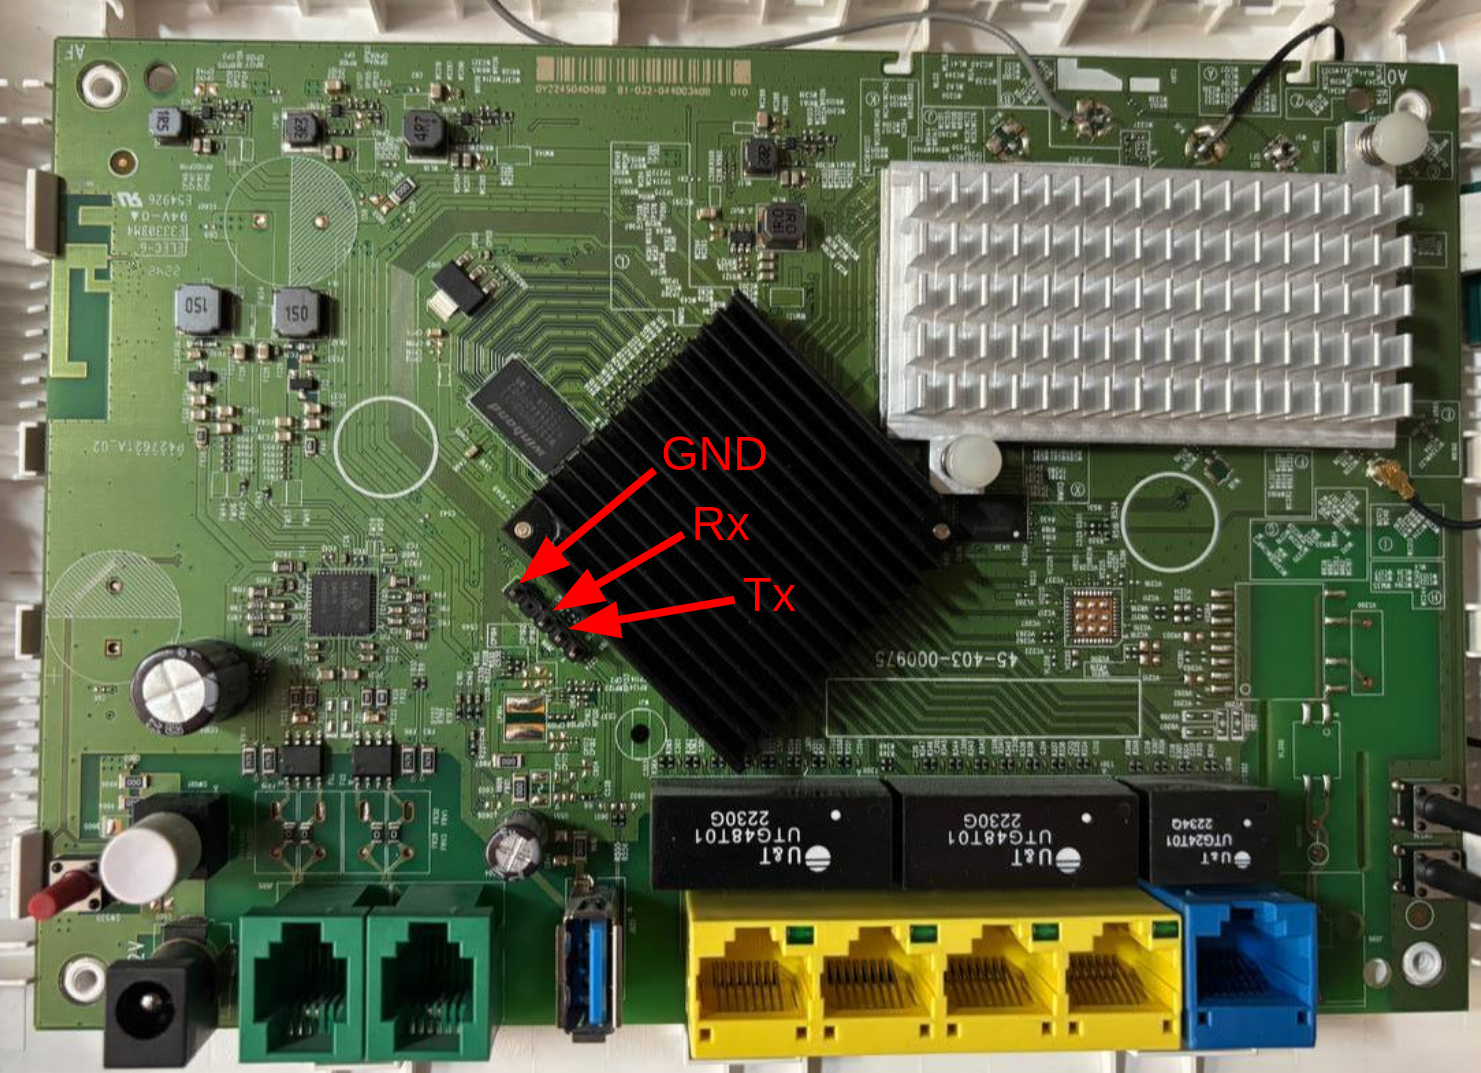
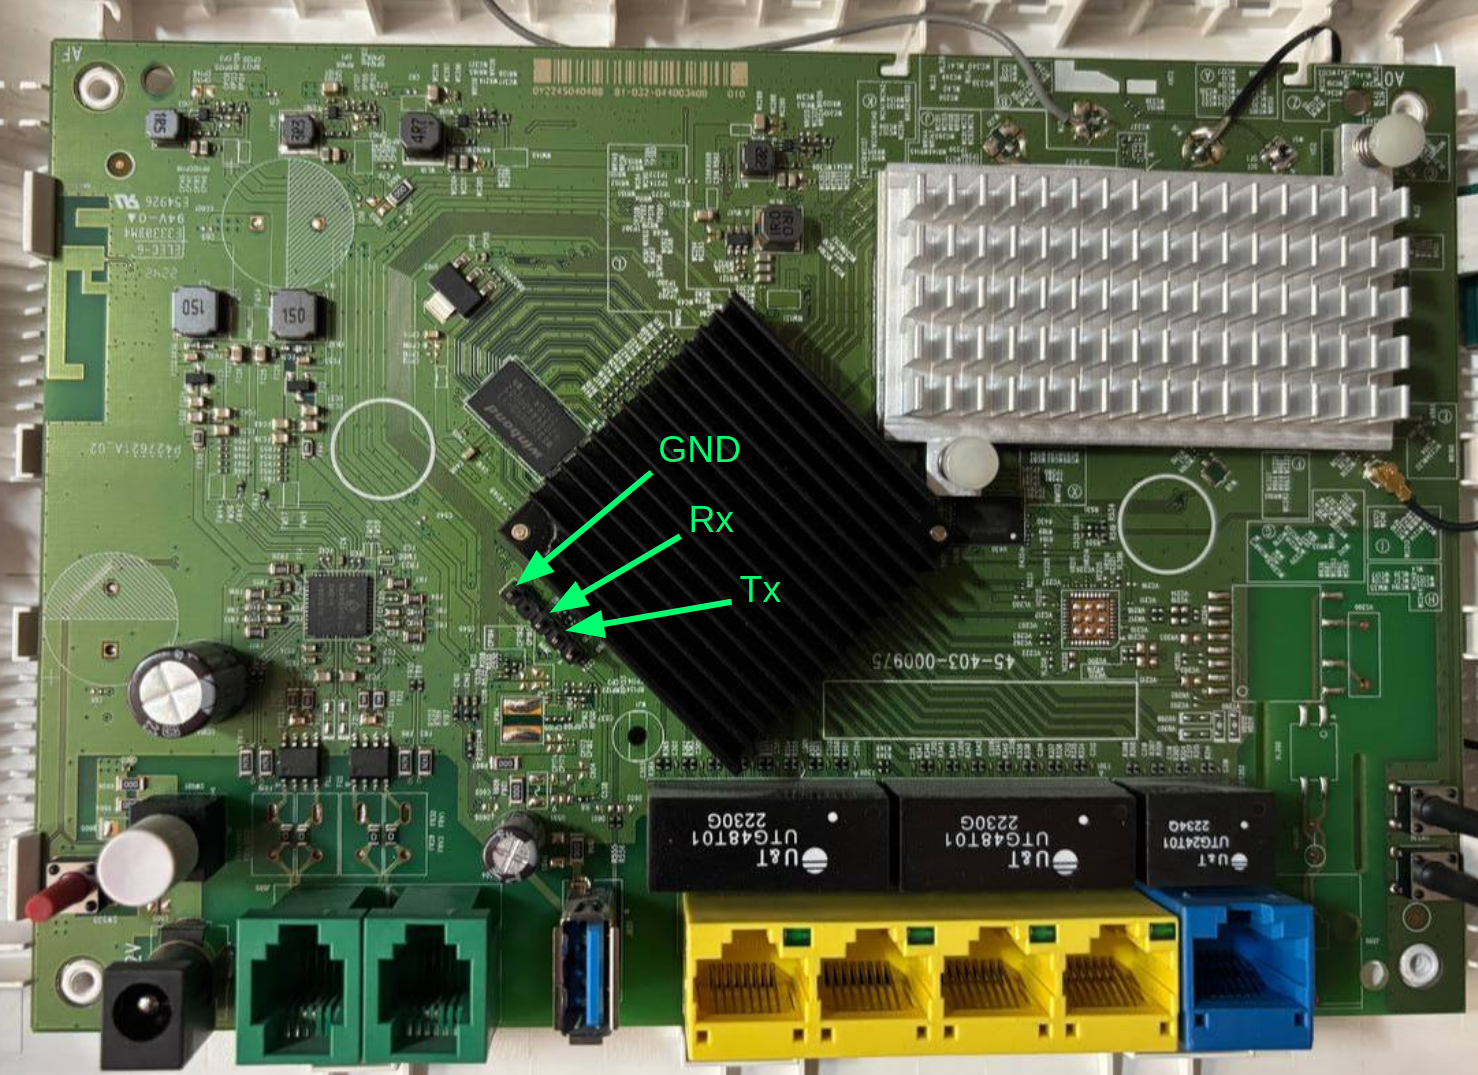
Continued with new post

diff --git a/_posts/2026-08-01-rce-on-isp-router-and-mediatek-0day.html b/_posts/2026-08-01-rce-on-isp-router-and-mediatek-0day.html
@@ -10,13 +10,13 @@ header:
 
 {% raw %}Hi there! In this blog post, I will be discussing how I broke into my ISP router by using a command injection, how I found another even better command injection inside, and how I ended up finding and exploiting a remote heap overflow in the kernel driver of the Mediatek chipset inside the router. These vulnerabilities have been disclosed over the past months and have been assigned the following CVEs:
 
-- CVE-2025-13942: Zyxel unauthenticated command injection in UPnP daemon
-- CVE-2025-13943: Zyxel authenticated command injection in log export CGI
-- CVE-2026-XXXX: Mediatek MTXXX WPS heap overflow
+  - CVE-2025-13942: Zyxel unauthenticated command injection in UPnP daemon
+  - CVE-2025-13943: Zyxel authenticated command injection in log export CGI
+  - CVE-2026-XXXX: Mediatek MTXXX WPS heap overflow
 
 As usual, this research is heavily based on reverse engineering and a fair amount of trial and error, so excuse me if there are any mistakes, specially in low level kernel stuff, since this is a very complex topic. If you find something that is awfully wrong and want to help me correct it, I am absolutely open to it. Anyways, let's start with the blog, since there is a lot to cover.
 
-<img src="/assets/images/posts/2026-06-01/zyxel_mediatek_teaser.jpg" style="width: 30em">
+<img src="/assets/images/posts/2026-06-01/zyxel_mediatek_teaser.png" style="width: 30em">
 
 [ Some context ]
 
@@ -171,8 +171,43 @@ DECIMAL       HEXADECIMAL     DESCRIPTION
 372           0x174           LZMA compressed data, properties: 0x6C, dictionary size: 8388608 bytes, uncompressed size: 16279488 bytes
 4180222       0x3FC8FE        Squashfs filesystem, little endian, version 4.0, compression:lzma, size: 26706310 bytes, 2393 inodes, blocksize: 262144 bytes, created: 2025-04-11 08:20:33</code>
 
-My main target were the UPnP ports that appeared in the nmap scan, since UPnP services tend to be straightforward and are easily reversed. After some initial analysis, I could not find any binaries that used those ports nor the schema advertised by the service, so I assumed it was an ISP thing and moved on.
+My main targets were the UPnP ports that appeared in the nmap scan, since UPnP services tend to be straightforward and are easily reversed. After some initial analysis, I could not find any binaries that used those ports nor the schema advertised by the service, so I assumed it was an ISP thing and moved on. By then, I just wanted a way inside the router, so I did not care about the potential findings requiring authentication. Because of this, I targeted the web interface, since I already knew that there had been command injections in the past.
 
-By then, I just wanted a way inside the router, so I did not care about the potential findings requiring authentication. Because of this, I targeted the web interface, since I already knew that there had been command injections in the past.
+Looking around into the firmware, I found the executable "/bin/zhttpd", which looked like the one behind the web server. I opened Ghidra and started reversing it. For this research, I used Claude a lot, since it can be connected to Ghidra using Cluade desktop and <a href="https://github.com/LaurieWired/GhidraMCP">GhidraMCP</a>. Athough Claude still has many flaws when diving deep into reversing and exploitation, it is pretty much useful in the initial phase, in which the main goal is just figuring out which are the most interesting functions of an executable, tracing user input, indentifying global tables, figuring out structures, etc.
+
+Using this setup, I quickly identified a global table starting at that mapped routes with their handler functions:
+
+<img src="/assets/images/posts/2026-06-01/zhttpd_routing_table.png" style="width: 40em">
+
+This allowed me confirming that the "/bin/zhttpd" binary that I had was close enough with the one in my ISP router, since most of these routes were accessible.
+
+After a quick look at each of them, "/cgi-bin/LogResult?action" caught my atention, which was mapped to function "zHttpLogHandle". This endpoint was responsible for managing device log operations and supported multiple actions through the "action" parameter, such as creating network traffic captures ("START_CAPTUR", "STOP_CAPTUR"), deleting logs ("DEL_LOG"), exporting logs ("EXPORT_LOG"), etc. In order to manage network traffic captures, it used system commands to execute and then stop "tcpdump":
+
+<img src="/assets/images/posts/2026-06-01/zhttpd_start_stop_captur.png" style="width: 40em">
+
+When executing the log export functionality, function "copyLog" was called, which reads a previously generated "tcpdump" capture file and writes its contents into a new log file. The problem here is that "copyLog" processes the network capture line by line using "fgets" and then, for each line read, it constructs a shell command using a "snprintf" wrapper. Then, it directly executes it using "system":
+
+<img src="/assets/images/posts/2026-06-01/zhttpd_copyLog.png" style="width: 40em">
+
+Since this process does not include any sanitization of the binary data that comes out of the network capture, any string that containing shell metacharacters will be escapes and later executed, enabling remote command execution. Perfect.
+
+Now, in order to exploit this, the attacker had to be authenticated. As I previously mentioned, all authenticated requests to the web interface were encrypted, but this could be easily reversed since all encryption logic happened in clientside JavaScript:
+
+<img src="/assets/images/posts/2026-06-01/zhttpd_encryption.png" style="width: 45em">
+
+So, I quickly crafted an exploit that executed the following:
+
+  1. Authenticate to the web interface with valid credentials to obtain a session key.
+  2. Start a network traffic capture
+  3. Send an HTTP request to the router with a header containing a command injection payload.
+  4. Stop the network traffic capture 
+  5. Trigger the vulnerability by requesting a log export
+
+After some bugfixing, I successfully got a root shell on the device:
+
+<img src="/assets/images/posts/2026-06-01/zhttpd_poc.png" style="width: 40em">
+
+This vulnerability was reported to Zyxel and assigned CVE-2025-13943. You can take a deeper look into the exploit <a href="https://github.com/hacefresko/CVEs/tree/main/CVE-2025-13943">at my github page</a>.
+
 
 {% endraw %}